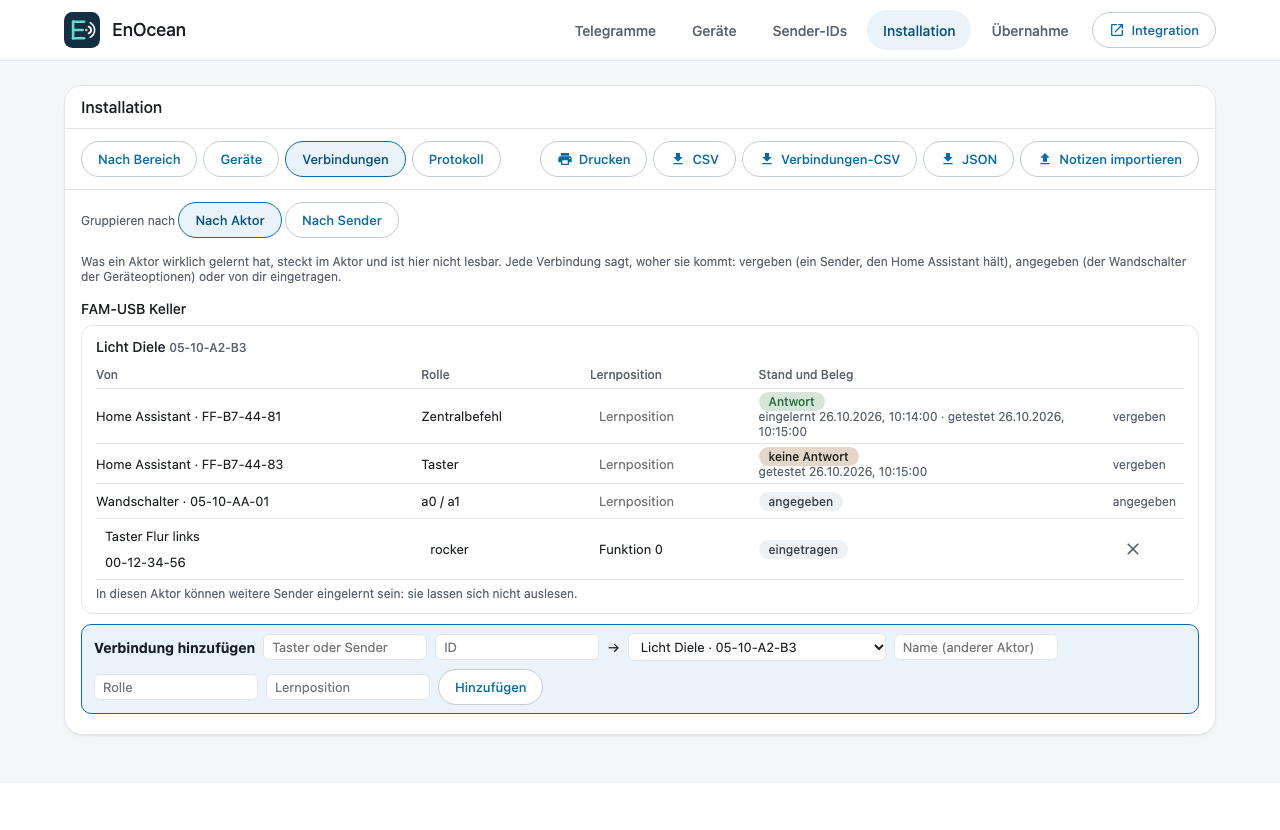
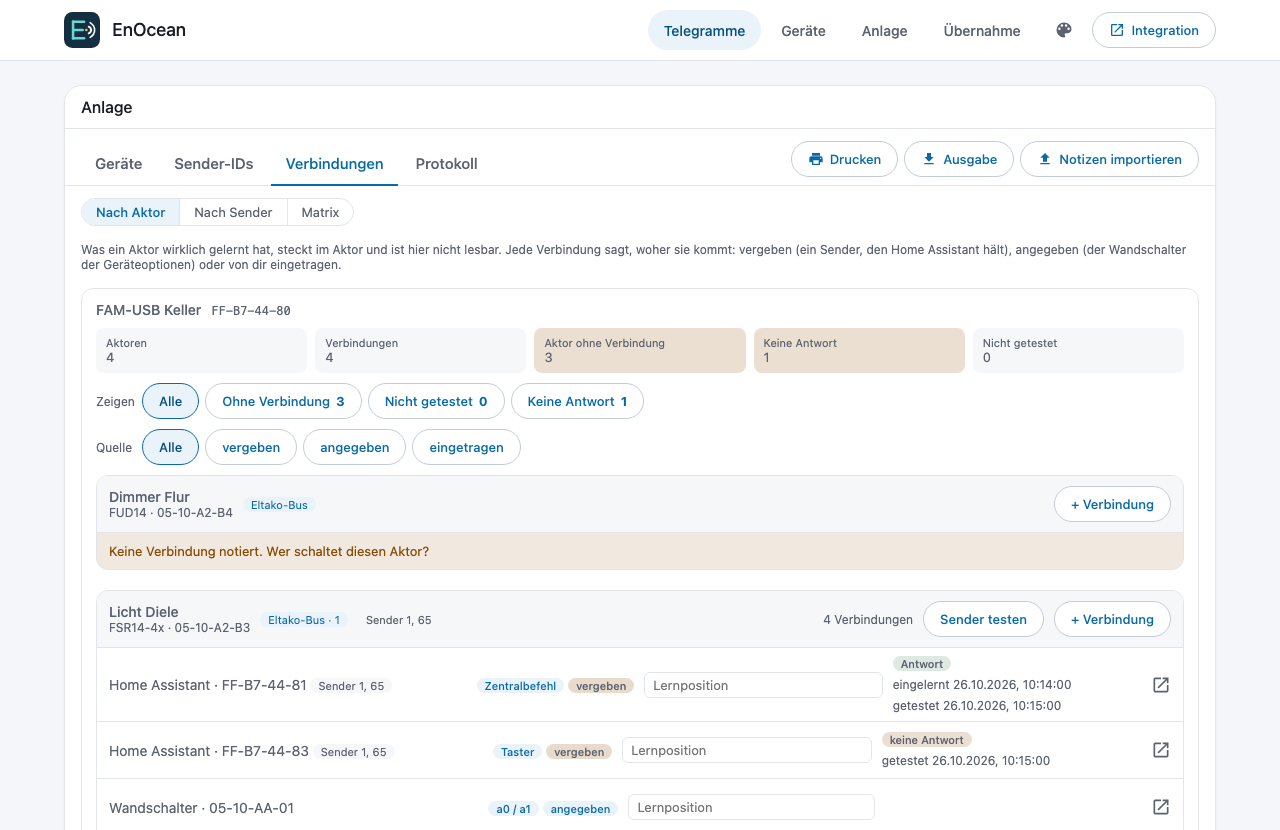
Installation: new README screenshots, link rows without clipped text and with styled learn fields
The screenshots of the installation devices and links (de, en) show the new layout.

diff --git a/custom_components/enocean_eltako/frontend/installation.js b/custom_components/enocean_eltako/frontend/installation.js
@@ -193,7 +193,8 @@ export const INSTALLATION_STYLE = `
   .installation .lhead .grow { flex: 1; }
   .installation .lhead b { font-weight: 500; font-size: calc(14px * var(--fs)); }
   .installation .lrow { display: grid; grid-template-columns: minmax(150px, 1.5fr) auto minmax(110px, 1fr) minmax(120px, 1fr) 30px; gap: 8px 10px; align-items: center; padding: 8px 12px; border-top: 1px solid var(--line); }
-  .installation .lrow input.cell { border-color: var(--line); }
+  .installation .lrow input.cell { width: 100%; min-width: 0; box-sizing: border-box; font: inherit; font-size: calc(13px * var(--fs)); padding: 4px 8px; border: 1px solid var(--line); border-radius: 6px; background: transparent; color: inherit; }
+  .installation .lrow input.cell:focus { border-color: var(--accent); outline: none; background: var(--surface); }
   .installation .lnone { padding: 10px 12px; color: var(--warn); font-size: calc(13px * var(--fs)); border-top: 1px solid var(--line); background: color-mix(in srgb, var(--warn) 12%, transparent); }
   .installation .ladd { display: flex; flex-wrap: wrap; gap: 8px; align-items: center; padding: 8px 12px; border-top: 1px solid var(--line); }
   .installation .ladd input, .installation .ladd select { font: inherit; font-size: calc(13px * var(--fs)); padding: 5px 8px; border: 1px solid var(--line); border-radius: 6px; background: var(--surface); color: inherit; }
@@ -203,6 +204,8 @@ export const INSTALLATION_STYLE = `
   .installation .tag.role { background: var(--accent-soft); color: var(--accent); }
   .installation .lrow > * { min-width: 0; }
   .installation .lrow .nm, .installation .lrow .lstate > span, .installation .lrow .nm a { overflow-wrap: anywhere; }
+  .installation .lrow .lstate { min-width: 0; }
+  .installation .lrow .lstate > span.isub { flex: 1 1 100%; min-width: 0; }
   .installation .lrow .tag { white-space: normal; }
   .installation .lstate { overflow-wrap: anywhere; display: flex; flex-wrap: wrap; gap: 6px; align-items: center; font-size: calc(12px * var(--fs)); }
   .installation table.matrix th, .installation table.matrix td { text-align: center; min-width: 76px; }
@@ -771,10 +774,10 @@ export const installation = {
     const learn = l.source === "entered"
       ? `<input class="cell" data-in-efield="learn" data-in-eid="${esc(l.id)}" data-in-gw="${esc(gw.entry_id)}" value="${esc(l.learn)}" placeholder="${esc(L.learn)}" aria-label="${esc(L.learn)}" autocomplete="off">`
       : `<input class="cell" data-in-learn="${esc(l.key)}" data-in-gw="${esc(gw.entry_id)}" value="${esc(l.learn)}" placeholder="${esc(L.learn)}" aria-label="${esc(L.learn)}" autocomplete="off">`;
-    const evidence = [l.teach_in ? L.teachIn(when(l.teach_in)) : "", l.tested ? L.tested(when(l.tested)) : ""].filter(Boolean).join(" · ");
+    const evidence = [l.teach_in ? L.teachIn(when(l.teach_in)) : "", l.tested ? L.tested(when(l.tested)) : ""].filter(Boolean);
     const state = l.source === "assigned"
-      ? `<span class="tag ${l.status === "confirmed" ? "ok" : l.status === "no_answer" ? "warn" : ""}" title="${esc(L.statusHint[l.status])}">${esc(L.status[l.status])}</span>${evidence ? `<span class="isub">${esc(evidence)}</span>` : ""}`
-      : `<span class="isub">${esc(L.statusHint[l.status] ?? "")}</span>`;
+      ? `<span class="tag ${l.status === "confirmed" ? "ok" : l.status === "no_answer" ? "warn" : ""}" title="${esc(L.statusHint[l.status])}">${esc(L.status[l.status])}</span>${evidence.map((e) => `<span class="isub">${esc(e)}</span>`).join("")}`
+      : "";
     const action = l.source === "entered"
       ? `<button class="icon-btn" data-in-del="${esc(l.id)}" data-in-gw="${esc(gw.entry_id)}" title="${esc(L.remove)}" aria-label="${esc(L.remove)}">${svg(ICON.close)}</button>`
       : `<button class="icon-btn" data-in-goto="${esc(model.byNote.get(l.to_key)?.key ?? "")}" title="${esc(L.changeAtDevice)}" aria-label="${esc(L.changeAtDevice)}">${svg(ICON.open)}</button>`;
